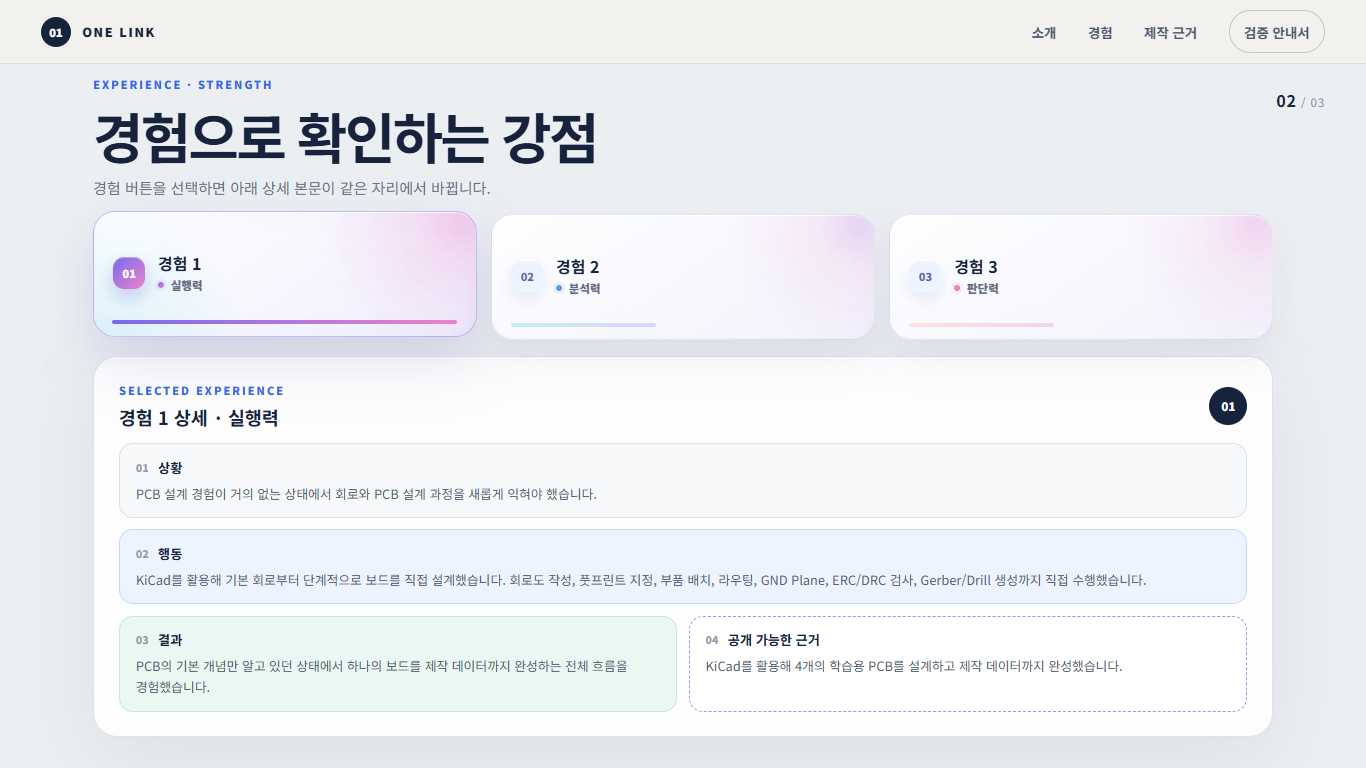
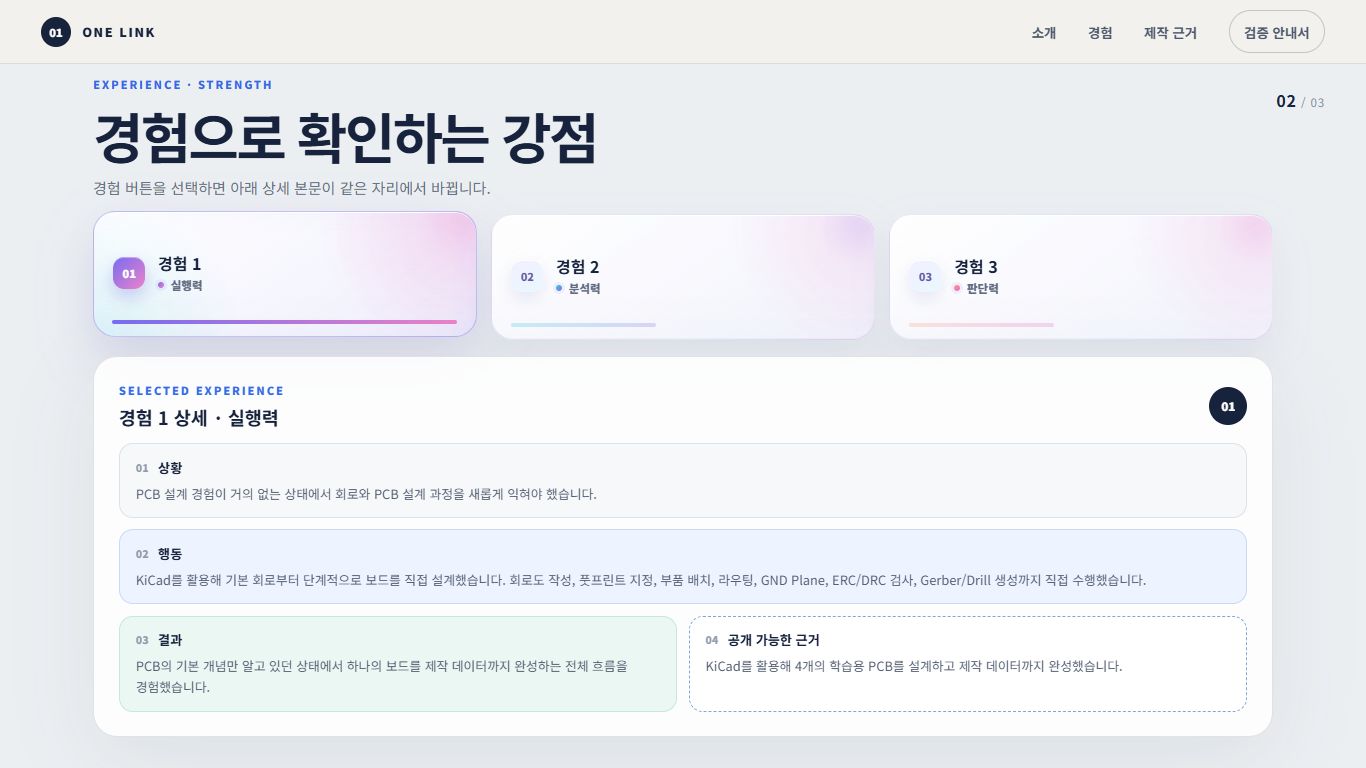
최대 문단길이로 UI상하 길이 고정

diff --git a/src/App.jsx b/src/App.jsx
@@ -78,12 +78,13 @@ function IntroSection() {
   );
 }
 
-function DetailBlock({ number, title, children, variant = "neutral", className = "" }) {
+function DetailBlock({ idPrefix, number, title, children, variant = "neutral", className = "" }) {
+  const headingId = `detail-${idPrefix}-${number}`;
   return (
-    <section className={`detail-block ${variant} ${className}`.trim()} aria-labelledby={`detail-${number}`}>
+    <section className={`detail-block ${variant} ${className}`.trim()} aria-labelledby={headingId}>
       <div className="detail-heading">
         <span aria-hidden="true">{number}</span>
-        <h3 id={`detail-${number}`}>{title}</h3>
+        <h3 id={headingId}>{title}</h3>
       </div>
       <p>{children}</p>
     </section>
@@ -93,17 +94,18 @@ function DetailBlock({ number, title, children, variant = "neutral", className =
 function ExperiencesSection() {
   const [activeId, setActiveId] = useState(1);
   const detailRef = useRef(null);
-  const active = experiences.find((item) => item.id === activeId);
 
   useLayoutEffect(() => {
     if (!detailRef.current || window.matchMedia("(prefers-reduced-motion: reduce)").matches) return undefined;
+    const activePanel = detailRef.current.querySelector(".experience-detail.is-current");
+    if (!activePanel) return undefined;
     const context = gsap.context(() => {
       gsap.fromTo(
         ".detail-block",
         { autoAlpha: 0, y: 12 },
         { autoAlpha: 1, y: 0, duration: 0.36, stagger: 0.045, ease: "power2.out", clearProps: "all" },
       );
-    }, detailRef);
+    }, activePanel);
     return () => context.revert();
   }, [activeId]);
 
@@ -137,28 +139,41 @@ function ExperiencesSection() {
           })}
         </div>
 
-        <article
+        <div
           id="experience-detail"
-          className="experience-detail"
+          className="experience-detail-stack"
           aria-live="polite"
-          aria-labelledby="experience-detail-title"
+          aria-atomic="true"
           ref={detailRef}
           data-testid="experience-detail"
         >
-          <div className="detail-title-row">
-            <div>
-              <p className="block-label">SELECTED EXPERIENCE</p>
-              <h3 id="experience-detail-title">{active.title} 상세 · {active.strength}</h3>
-            </div>
-            <span className="detail-badge">0{active.id}</span>
-          </div>
-          <div className="detail-grid">
-            <DetailBlock number="01" title="상황">{active.situation}</DetailBlock>
-            <DetailBlock number="02" title="행동" variant="action">{active.action}</DetailBlock>
-            <DetailBlock number="03" title="결과" variant="result" className="half">{active.result}</DetailBlock>
-            <DetailBlock number="04" title="공개 가능한 근거" variant="evidence" className="half">{active.evidence}</DetailBlock>
-          </div>
-        </article>
+          {experiences.map((item) => {
+            const selected = item.id === activeId;
+            const idPrefix = `experience-${item.id}`;
+            return (
+              <article
+                key={item.id}
+                className={`experience-detail ${selected ? "is-current" : ""}`}
+                aria-hidden={selected ? undefined : true}
+                aria-labelledby={selected ? "experience-detail-title" : undefined}
+              >
+                <div className="detail-title-row">
+                  <div>
+                    <p className="block-label">SELECTED EXPERIENCE</p>
+                    <h3 id={selected ? "experience-detail-title" : undefined}>{item.title} 상세 · {item.strength}</h3>
+                  </div>
+                  <span className="detail-badge">0{item.id}</span>
+                </div>
+                <div className="detail-grid">
+                  <DetailBlock idPrefix={idPrefix} number="01" title="상황">{item.situation}</DetailBlock>
+                  <DetailBlock idPrefix={idPrefix} number="02" title="행동" variant="action">{item.action}</DetailBlock>
+                  <DetailBlock idPrefix={idPrefix} number="03" title="결과" variant="result" className="half">{item.result}</DetailBlock>
+                  <DetailBlock idPrefix={idPrefix} number="04" title="공개 가능한 근거" variant="evidence" className="half">{item.evidence}</DetailBlock>
+                </div>
+              </article>
+            );
+          })}
+        </div>
       </div>
     </section>
   );

diff --git a/tests/page.spec.js b/tests/page.spec.js
@@ -57,12 +57,20 @@ test("경험 선택이 클릭·Enter·Space에서 작동함", async ({ page }) =
 
   const buttons = page.locator(".experience-button");
   await expect(buttons).toHaveCount(3);
+  const detailStack = page.locator("#experience-detail");
+  const initialDetailBox = await detailStack.boundingBox();
+  const initialSectionBox = await page.locator("#experiences").boundingBox();
   for (let index = 0; index < 3; index += 1) {
     await buttons.nth(index).click();
-    await expect(page.locator(".detail-block")).toHaveCount(4);
-    for (const block of await page.locator(".detail-block p").all()) {
+    await expect(page.locator(".experience-detail.is-current")).toHaveCount(1);
+    await expect(page.locator(".experience-detail.is-current .detail-block")).toHaveCount(4);
+    for (const block of await page.locator(".experience-detail.is-current .detail-block p").all()) {
       expect((await block.textContent()).trim().length).toBeGreaterThan(0);
     }
+    const detailBox = await detailStack.boundingBox();
+    const sectionBox = await page.locator("#experiences").boundingBox();
+    expect(Math.abs(detailBox.height - initialDetailBox.height)).toBeLessThanOrEqual(1);
+    expect(Math.abs(sectionBox.height - initialSectionBox.height)).toBeLessThanOrEqual(1);
   }
   await buttons.nth(1).click();
   await expect(page.locator("#experience-detail-title")).toContainText("경험 2 상세");

diff --git a/src/styles.css b/src/styles.css
@@ -229,10 +229,16 @@ img { max-width: 100%; height: auto; }
   background: linear-gradient(135deg, var(--card-accent-a), var(--card-accent-b));
   box-shadow: 0 0 0 3px rgba(119,108,241,0.09);
 }
-.experience-detail {
-  min-width: 0; padding: clamp(1.1rem, 2vw, 1.55rem); border-radius: var(--radius-lg);
-  border: 1px solid rgba(23,35,61,0.12); background: rgba(255,255,255,0.88); box-shadow: var(--shadow);
+.experience-detail-stack {
+  min-width: 0; display: grid;
 }
+.experience-detail {
+  grid-area: 1 / 1; min-width: 0; padding: clamp(1.1rem, 2vw, 1.55rem); border-radius: var(--radius-lg);
+  border: 1px solid rgba(23,35,61,0.12); background: rgba(255,255,255,0.88); box-shadow: var(--shadow);
+  visibility: hidden; opacity: 0; pointer-events: none;
+  transition: opacity 180ms ease;
+}
+.experience-detail.is-current { z-index: 1; visibility: visible; opacity: 1; pointer-events: auto; }
 .detail-title-row { display: flex; align-items: center; justify-content: space-between; gap: 1rem; margin-bottom: 0.85rem; }
 .detail-title-row > div { min-width: 0; }
 .detail-title-row .block-label { margin-bottom: 0.35rem; }
